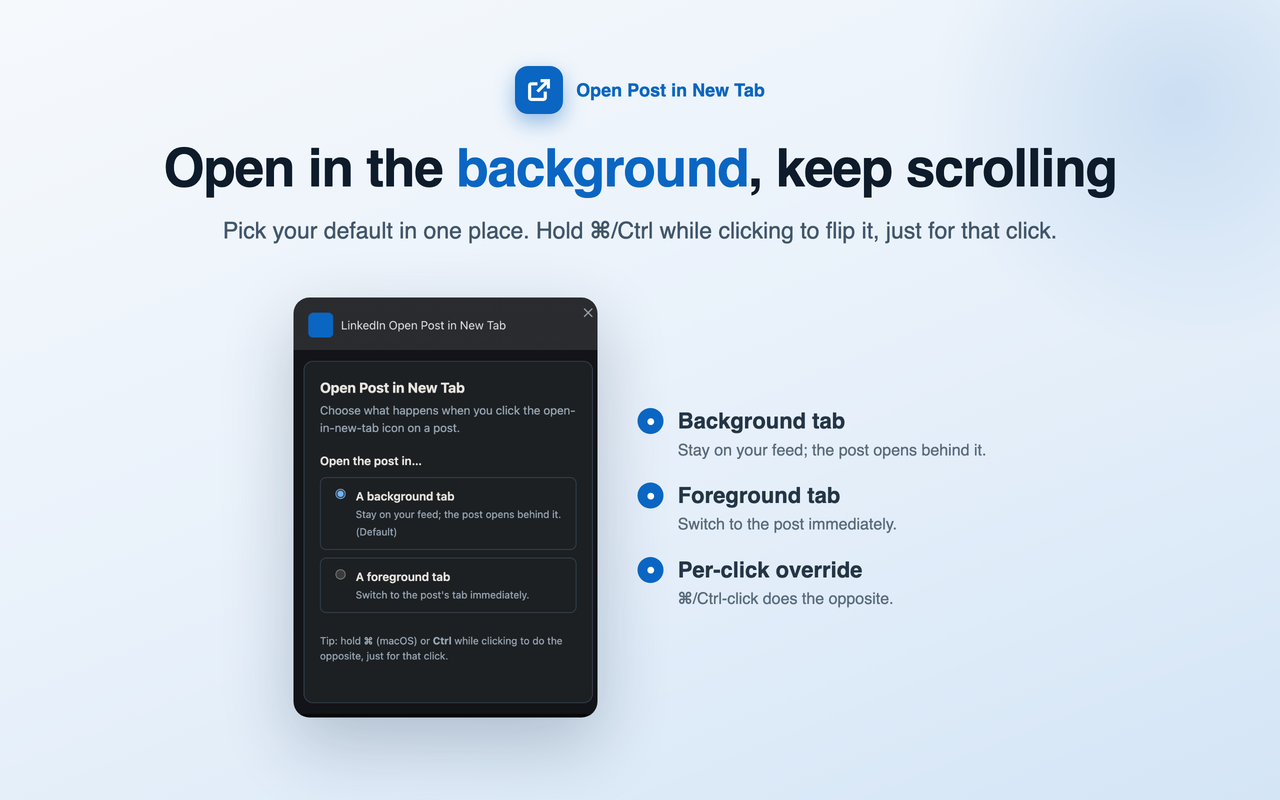
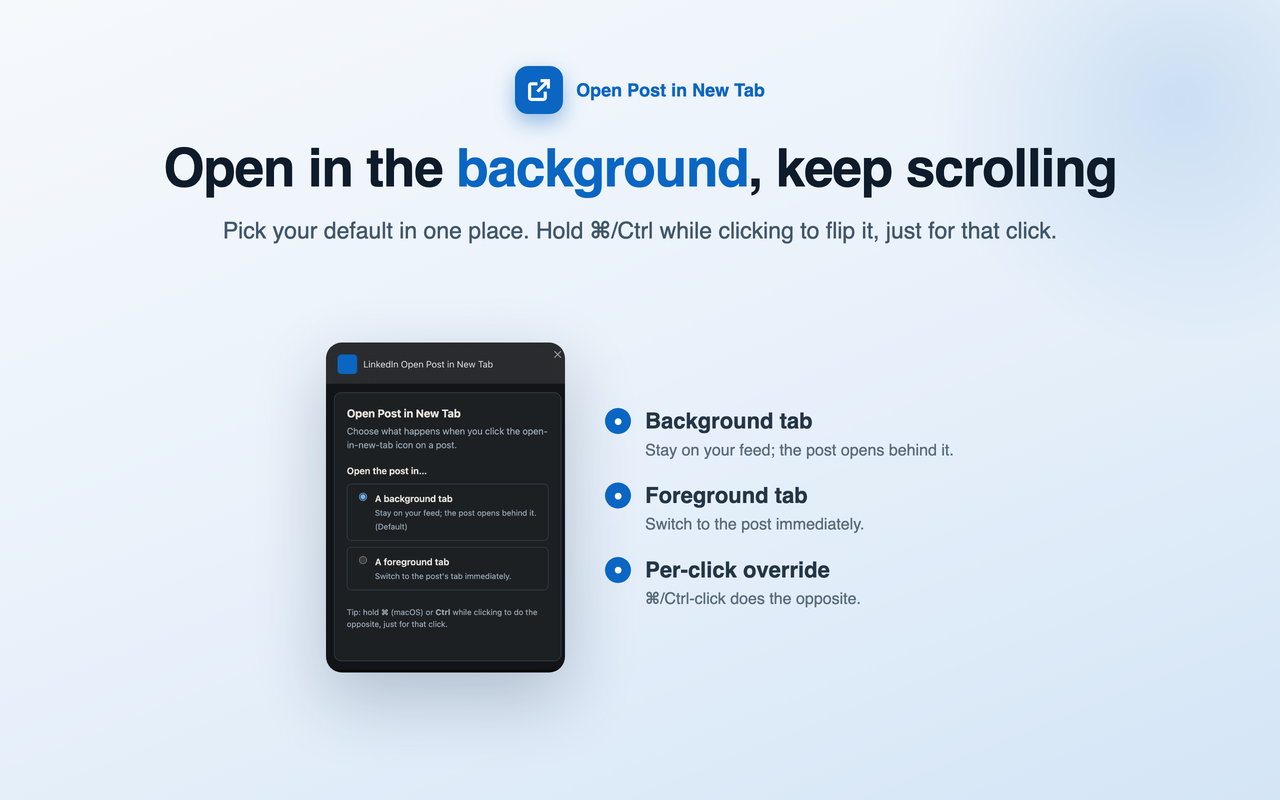
docs/store: better light+dark hover pair, smaller settings shot, add 5th screenshot
- docs hover screenshot: replace the cut-off tooltip crop with a clean
  light+dark hover pair (focus ring visible in both themes)
- store screenshot 3 (settings): shrink the popup for better balance
- store screenshot 5: "On every kind of post" (Suggested, reposts, profiles)

Claude-Session: https://claude.ai/code/session_01XFwqgyTwnvpsptE1kANX42

Changed region(s): [[0.2188, 0.3438, 0.75, 0.9375]]

diff --git a/README.md b/README.md
@@ -18,9 +18,13 @@ native controls in both themes:
 
 ![The same LinkedIn post shown side by side in light and dark mode, each with the open-in-new-tab icon next to the … menu](docs/screenshot-feed.png)
 
-| Hover state | Settings popup |
-| --- | --- |
-| ![The icon hovered, showing its focus ring and "Open this post in a new tab" tooltip](docs/screenshot-hover.png) | ![Popup to choose whether posts open in a background or foreground tab](docs/screenshot-options.png) |
+Hover state — the button shows a native focus ring in both themes:
+
+![The open-in-new-tab icon hovered on a post in light mode and in dark mode, each showing LinkedIn's native focus ring](docs/screenshot-hover.png)
+
+Choose whether posts open in a background or foreground tab:
+
+<p><img src="docs/screenshot-options.png" alt="Settings popup to choose background vs foreground tab" width="330"></p>
 
 <details>
 <summary>Permissions (extension details)</summary>

diff --git a/store/README.md b/store/README.md
@@ -13,6 +13,7 @@ Promotional images and listing copy for submitting this extension to the
 | `promo-screenshot-2-1280x800.png` | 1280×800 | Screenshot 2 — light & dark |
 | `promo-screenshot-3-1280x800.png` | 1280×800 | Screenshot 3 — settings |
 | `promo-screenshot-4-1280x800.png` | 1280×800 | Screenshot 4 — privacy |
+| `promo-screenshot-5-1280x800.png` | 1280×800 | Screenshot 5 — works on every kind of post |
 
 At least one 1280×800 (or 640×400) screenshot is required; up to 5 are allowed.
 
